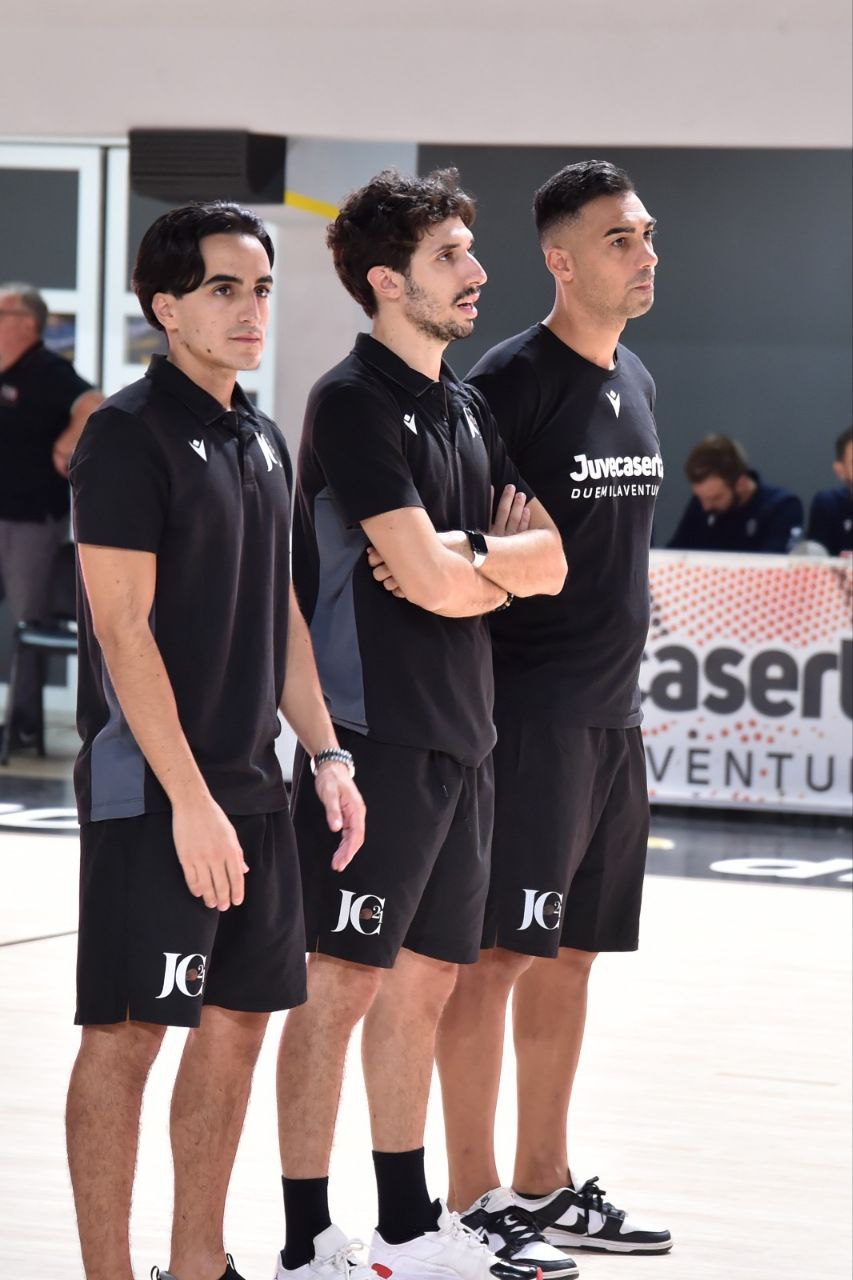
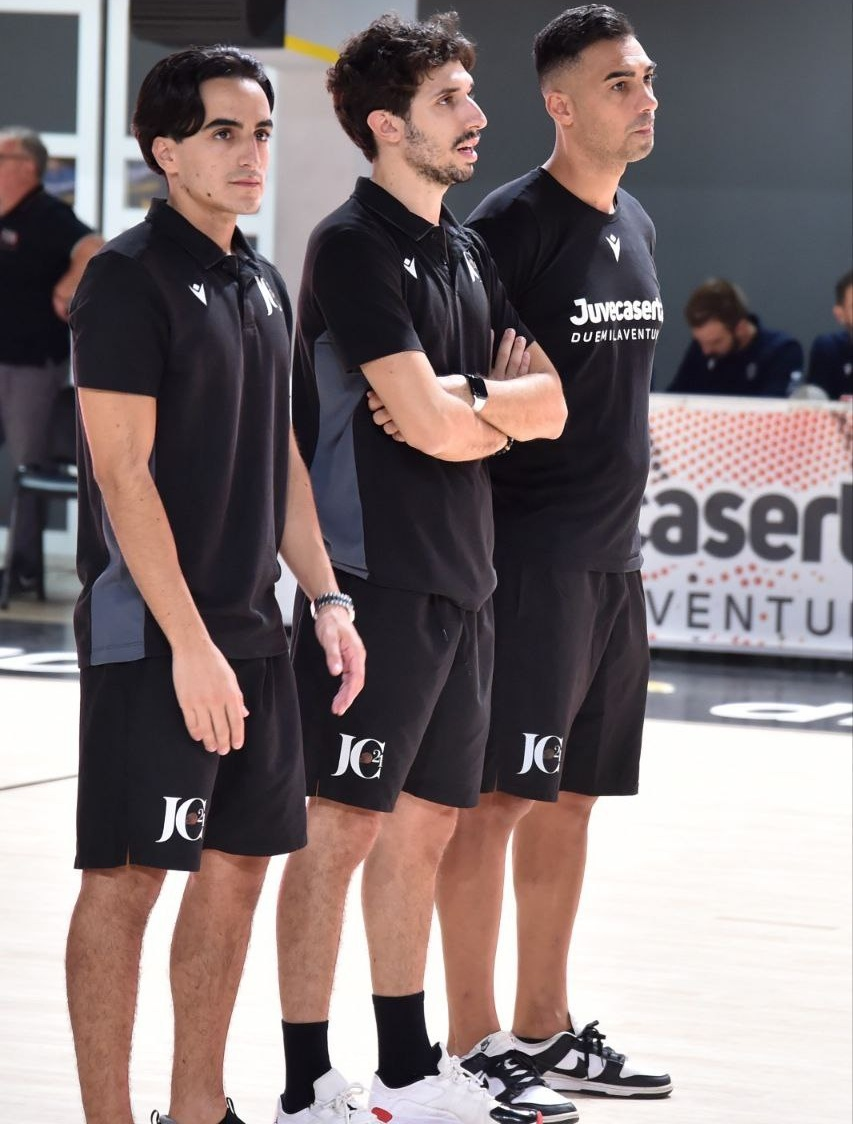
modificato leggermente le altezze in cardpic e cardstaff

diff --git a/src/components/Buttons/BtnMenu.tsx b/src/components/Buttons/BtnMenu.tsx
@@ -13,8 +13,8 @@ const BtnMenu = () => {
         href="/"
         id="Home"
         className={`${
-          pathname === "/" ? "underline font-bold" : ""
-        } hover:underline hover:font-bold underline-offset-4`}
+          pathname === "/" ? "[text-decoration:underline_overline] underline-offset-4 font-bold" : ""
+        } hover:underline-offset-4 hover:[text-decoration:underline_overline]`}
       >
         Home
       </Link>
@@ -22,8 +22,8 @@ const BtnMenu = () => {
         href="/Servizi"
         id="Servizi"
         className={`${
-          pathname === "/Servizi" ? "underline font-bold" : ""
-        } hover:underline hover:font-bold underline-offset-4`}
+          pathname === "/Servizi" ? "[text-decoration:underline_overline] underline-offset-4 font-bold" : ""
+        } hover:underline-offset-4 hover:[text-decoration:underline_overline]`}
       >
         Servizi
       </Link>
@@ -31,8 +31,8 @@ const BtnMenu = () => {
         href="/About"
         id="About"
         className={`${
-          pathname === "/About" ? "underline font-bold" : ""
-        } hover:underline hover:font-bold underline-offset-4`}
+          pathname === "/About" ? "[text-decoration:underline_overline] underline-offset-4 font-bold" : ""
+        } hover:underline-offset-4 hover:[text-decoration:underline_overline]`}
       >
         Chi Siamo
       </Link>
@@ -40,8 +40,8 @@ const BtnMenu = () => {
         href="/Contatti"
         id="Contatti"
         className={`${
-          pathname === "/Contatti" ? "underline font-bold" : ""
-        } hover:underline hover:font-bold underline-offset-4`}
+          pathname === "/Contatti" ? "[text-decoration:underline_overline] underline-offset-4 font-bold" : ""
+        } hover:underline-offset-4 hover:[text-decoration:underline_overline]`}
       >
         Contatti
       </Link>

diff --git a/src/components/Cards/CardStaff.tsx b/src/components/Cards/CardStaff.tsx
@@ -15,7 +15,7 @@ const CardStaff = (dettaglioStaff: MyProps) => {
     <div className='flex flex-col p-5 inset-0 rounded-xl '>
 
         <Image className='rounded-t-xl object-cover
-        h-96 w-80
+        h-96 lg:h-[500px] w-80 lg:w-[350px]
         brightness-[.85] hover:filter-none
         border-t-2 border-x-2 border-sky-500
         ' key={dettaglioStaff.id} src={dettaglioStaff.immagine} alt={dettaglioStaff.nome} width={420} height={700}/>

diff --git a/src/components/Cards/CardPic.tsx b/src/components/Cards/CardPic.tsx
@@ -31,7 +31,7 @@ const CardPic = (foto: MyProps) => {
     <div className='px-2 pt-5 rounded-xl '>
 
         <Image className='rounded-xl object-cover object-top
-        h-[500px] lg:h-[670px] w-[800px]
+        h-[500px] lg:h-[650px] w-[800px]
         border-2 border-sky-500
         '
         key={key} src={src} alt={txt} width={420} height={550}/>
